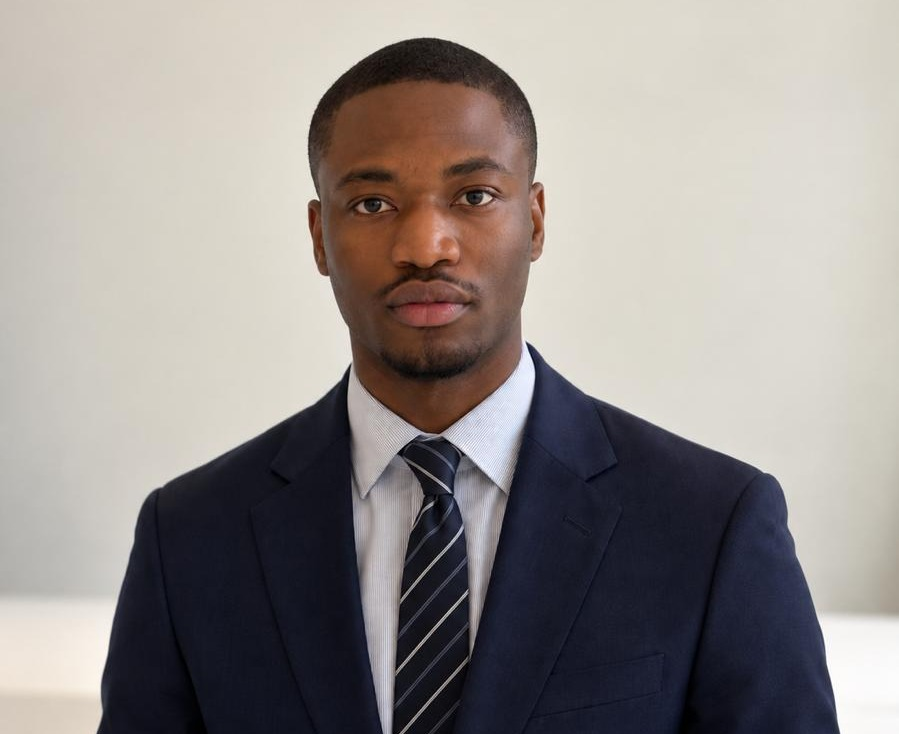
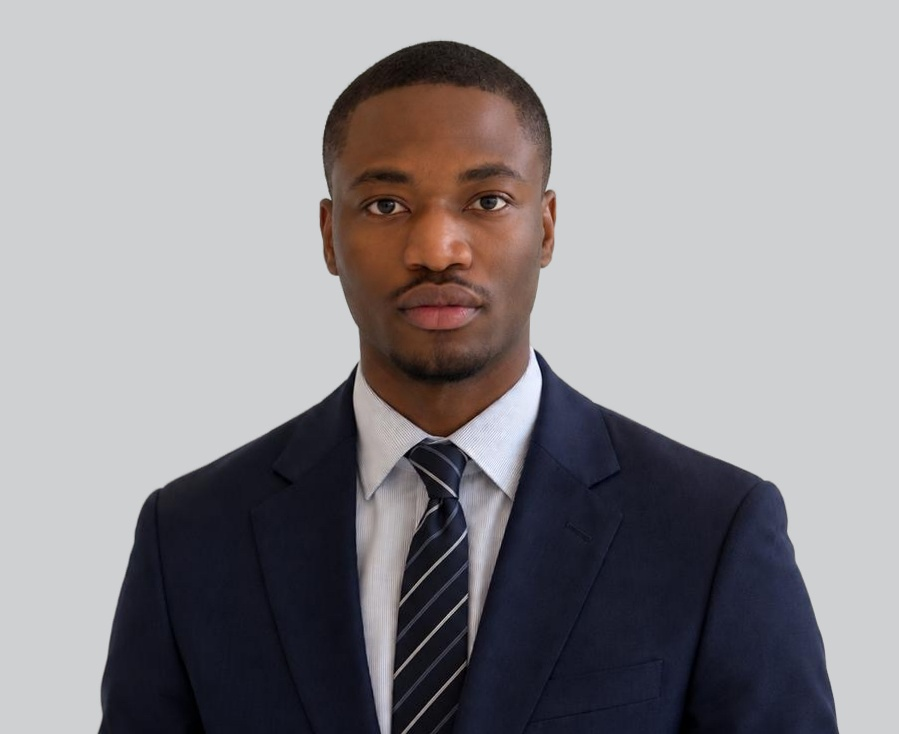
Refresh all leadership photos; rename Shifu Afayi to Shifu Hammadina; remove photo borders (#18)
1. Replaced all five leadership photos (Giovanny, Winner, Vianney, Shifu,
   Ornella) with new source photos from Downloads, matching each
   person's existing headroom target (Giovanny/Shifu/Vianney/Ornella 6%,
   Winner 5.6%) and a consistent ~20-25% head-width-to-frame ratio.
   Vianney recentered on his true shoulder bounding box (angled pose).

2. Renamed "Shifu Afayi" to "Shifu Hammadina" across the leadership
   list and profile pages; bio text now reads "Shifu leads..." /
   "Shifu dirige..." instead of "Afayi ...". Renamed the image asset
   to shifu-hammadina.jpg and removed the old shifu-afayi.jpg.

3. Removed the 1px black border added earlier on .lp-person-img and
   .pp-photo per feedback.

Claude-Session: https://claude.ai/code/session_01X4CJ8SMEQuGrLGJigFrvQb

diff --git a/app/about/leadership/page.tsx b/app/about/leadership/page.tsx
@@ -42,7 +42,7 @@ const governanceBoard = [
 ]
 
 const executiveTeam = [
-  { name: 'Shifu Afayi', role: 'Chief Program Officer',      roleFr: 'Directeur des Programmes',      bio: "Afayi leads the design, execution, and evaluation of all Gwags programs, translating the institution's strategy into measurable field impact.",        bioFr: "Afayi dirige la conception, l'exécution et l'évaluation de l'ensemble des programmes de Gwags, traduisant la stratégie de l'institution en impact mesurable sur le terrain.", linkedinUrl: 'https://www.linkedin.com/in/shifu-afayi-h-3708412a3/', image: '/images/leadership/shifu-afayi.jpg' },
+  { name: 'Shifu Hammadina', role: 'Chief Program Officer',      roleFr: 'Directeur des Programmes',      bio: "Shifu leads the design, execution, and evaluation of all Gwags programs, translating the institution's strategy into measurable field impact.",        bioFr: "Shifu dirige la conception, l'exécution et l'évaluation de l'ensemble des programmes de Gwags, traduisant la stratégie de l'institution en impact mesurable sur le terrain.", linkedinUrl: 'https://www.linkedin.com/in/shifu-afayi-h-3708412a3/', image: '/images/leadership/shifu-hammadina.jpg' },
   { name: 'Ornella Ebolo', role: 'Chief Communications Officer',  roleFr: 'Directeur de la Communication', bio: "Ornella oversees Gwags's communications strategy and public presence across all platforms.",                   bioFr: "Ornella supervise la stratégie de communication de Gwags et sa présence publique sur toutes les plateformes.", image: '/images/leadership/ornella-ebolo.jpg' },
 ]
 

diff --git a/app/about/leadership/[slug]/page.tsx b/app/about/leadership/[slug]/page.tsx
@@ -52,13 +52,13 @@ const PEOPLE: Record<string, { name: string; role: string; roleFr?: string; bio:
     linkedin: 'https://linkedin.com/in/placeholder', // UPDATE: Replace with actual LinkedIn URL
   },
   'placeholder-director-operations': {
-    name: 'Shifu Afayi',
+    name: 'Shifu Hammadina',
     role: 'Chief Program Officer',
     roleFr: 'Directeur des Programmes',
-    bio: "Afayi leads the design, execution, and evaluation of all Gwags programs, translating the institution's strategy into measurable field impact.",
-    bioFr: "Afayi dirige la conception, l'exécution et l'évaluation de l'ensemble des programmes de Gwags, traduisant la stratégie de l'institution en impact mesurable sur le terrain.",
+    bio: "Shifu leads the design, execution, and evaluation of all Gwags programs, translating the institution's strategy into measurable field impact.",
+    bioFr: "Shifu dirige la conception, l'exécution et l'évaluation de l'ensemble des programmes de Gwags, traduisant la stratégie de l'institution en impact mesurable sur le terrain.",
     linkedin: 'https://www.linkedin.com/in/shifu-afayi-h-3708412a3/',
-    image: '/images/leadership/shifu-afayi.jpg',
+    image: '/images/leadership/shifu-hammadina.jpg',
   },
   'placeholder-director-communications': {
     name: 'Ornella Ebolo',

diff --git a/app/globals.css b/app/globals.css
@@ -2191,7 +2191,6 @@ input:-webkit-autofill:active {
   max-width:       490px;
   background:      #e8e8e8;
   border-radius:   12px;
-  border:          1px solid #000000;
   display:         flex;
   align-items:     center;
   justify-content: center;
@@ -2226,7 +2225,7 @@ input:-webkit-autofill:active {
 }
 
 /* ── Leadership page: profile card image height ── */
-.lp-person-img { height: 280px; border: 1px solid #000000; }
+.lp-person-img { height: 280px; }
 
 @media (min-width: 480px) and (max-width: 600px) {
   .lp-person-card { max-width: 350px !important; margin: 0 auto !important; }
